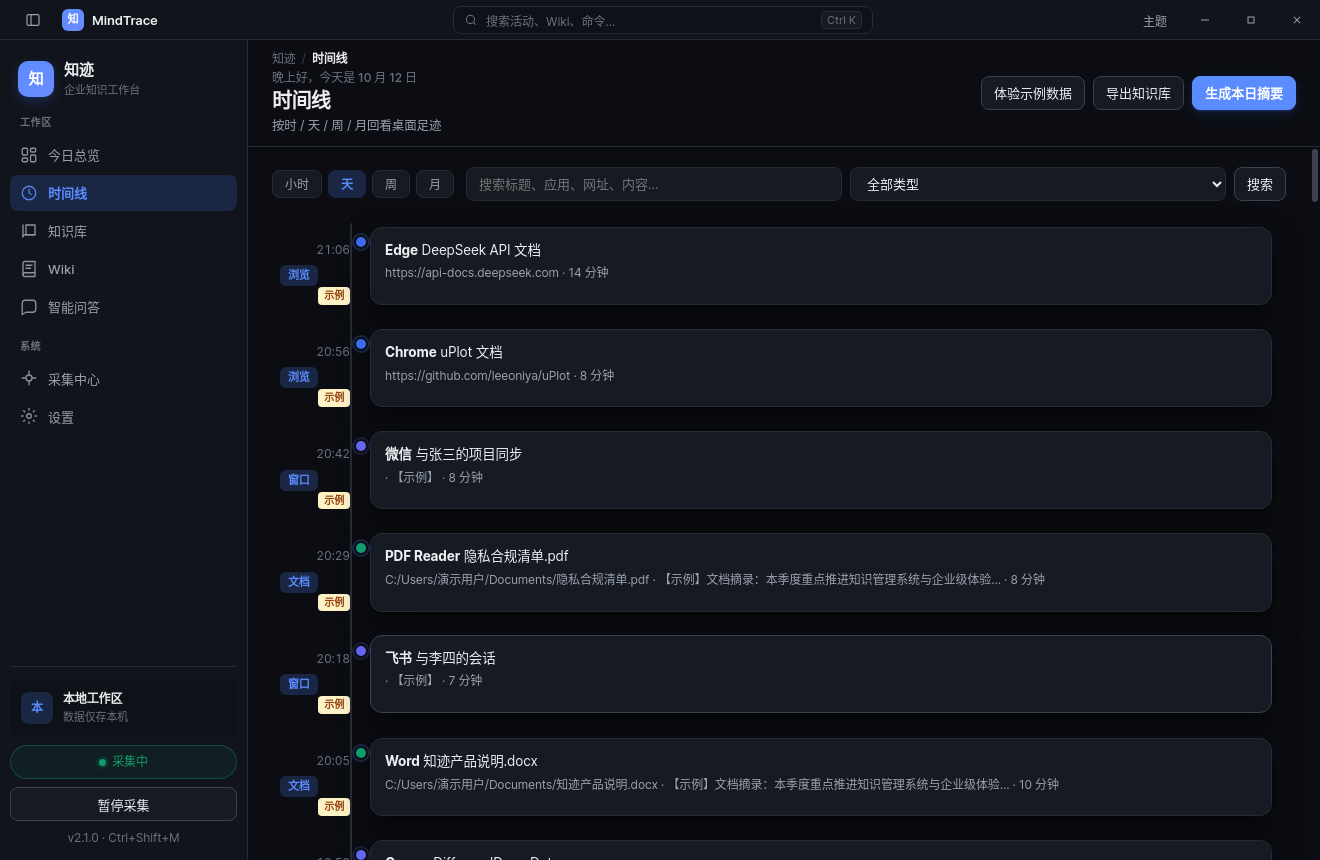
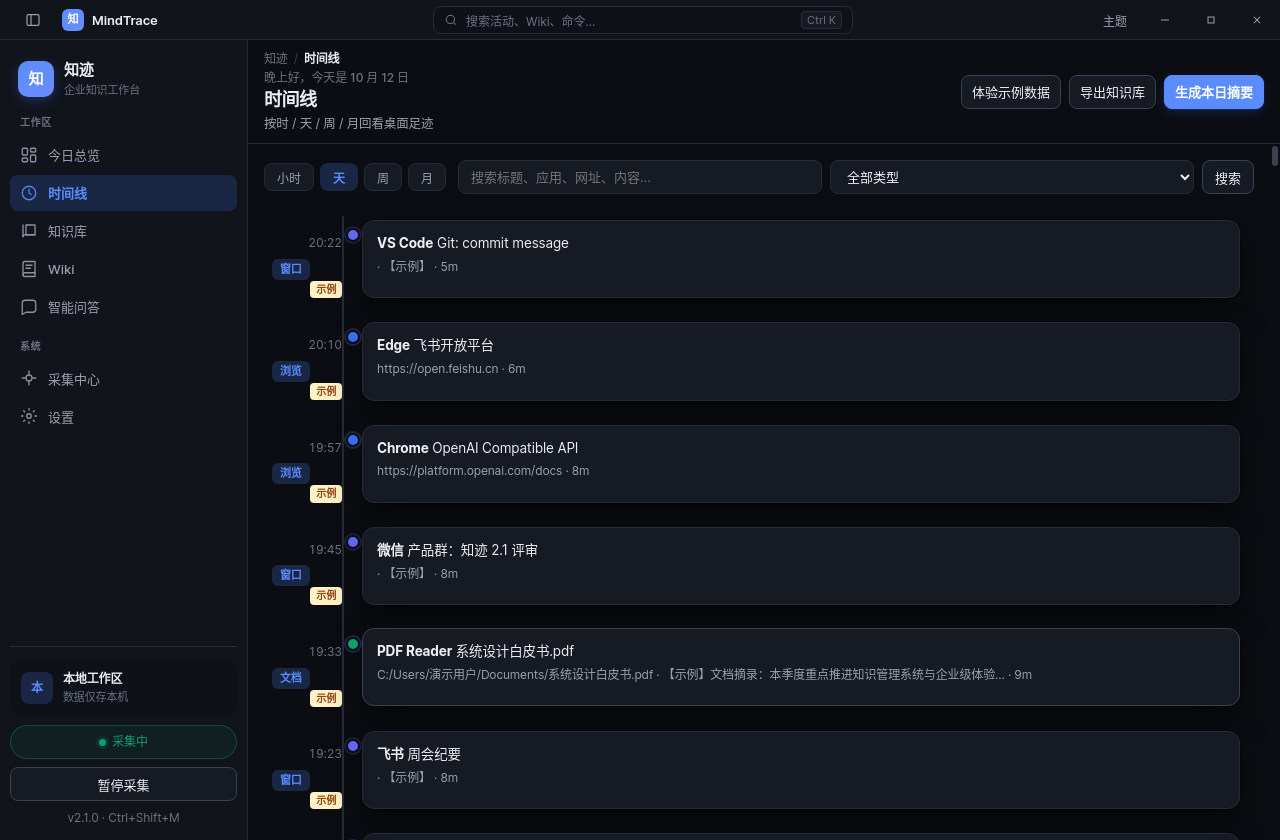
fix(ui): compact KPI time, varied 7-day demo, 1024 layout
- fmtMin → 7h 59m (nowrap); CSS tweaks for 1024/1280
- Seed days -6..-1 with varied counts; deltas ~±9–14%
- Screenshot tour includes 1024 width sweep

diff --git a/src/main/main.js b/src/main/main.js
@@ -80,9 +80,26 @@ async function runScreenshotTour() {
   await mainWindow.webContents.executeJavaScript(`document.getElementById('ob-finish')?.click()`);
   await wait(1200);
   setDemoMode(true);
+  try { mainWindow.setSize(1280, 840); } catch (_) {}
   await mainWindow.webContents.executeJavaScript(`window.mindtrace && (async()=>{const s=document.querySelector('[data-view=dashboard]'); s&&s.click(); await new Promise(r=>setTimeout(r,400));})()`);
   await wait(1200);
   await capture('05-dashboard.png');
+  // 1024px width sweep — ensure KPI / chrome do not wrap or clip
+  try { mainWindow.setSize(1024, 720); } catch (_) {}
+  await wait(500);
+  await mainWindow.webContents.executeJavaScript(`document.querySelector('[data-view=dashboard]')?.click()`);
+  await wait(700);
+  await capture('05b-dashboard-1024.png');
+  await mainWindow.webContents.executeJavaScript(`document.querySelector('[data-view=timeline]')?.click()`);
+  await wait(500); await capture('06d-timeline-1024.png');
+  await mainWindow.webContents.executeJavaScript(`document.querySelector('[data-view=wiki]')?.click()`);
+  await wait(500); await capture('07d-wiki-1024.png');
+  await mainWindow.webContents.executeJavaScript(`document.querySelector('[data-view=chat]')?.click()`);
+  await wait(500); await capture('08b-chat-1024.png');
+  try { mainWindow.setSize(1280, 840); } catch (_) {}
+  await wait(400);
+  await mainWindow.webContents.executeJavaScript(`document.querySelector('[data-view=dashboard]')?.click()`);
+  await wait(400);
   // Timeline with zoom levels
   await mainWindow.webContents.executeJavaScript(`document.querySelector('[data-view=timeline]')?.click()`);
   await wait(700);
@@ -337,7 +354,7 @@ function seedDemoData() {
     const item = catalog[n % catalog.length];
     const ti = Math.floor(n / catalog.length) % item.titles.length;
     const title = item.titles[ti];
-    const durMin = item.dur[ti % item.dur.length];
+    const durMin = Math.max(5, Math.round(item.dur[ti % item.dur.length] * 0.7));
     const start = cursor;
     const duration_ms = durMin * 60000;
     const row = {
@@ -361,22 +378,48 @@ function seedDemoData() {
     if (cursor > base + 22 * 3600000) cursor = base + (9 * 60) * 60000 + (n * 7 * 60000);
   }
 
-  // Yesterday baseline (thinner) so KPI deltas are meaningful
-  const yStart = base - 86400000;
-  for (let i = 0; i < 28; i++) {
-    const item = catalog[i % catalog.length];
-    const start = yStart + (9 * 60 + i * 18) * 60000;
-    store.insertActivity({
-      type: item.type === 'browser' ? 'browser' : item.type === 'document' ? 'document' : 'window',
-      started_at: start,
-      ended_at: start + 8 * 60000,
-      duration_ms: 8 * 60000,
-      app_name: item.app,
-      process_name: item.app,
-      window_title: '【昨日】' + item.titles[0],
-      url: item.type === 'browser' ? 'https://example.com/demo-y/' + i : null,
-      meta: { isDemo: true }
-    });
+  // Previous 6 days: varied counts for week-trend + plausible KPI deltas vs yesterday
+  // counts for days -6..-1 (today is seeded above as ~60)
+  const histCounts = [42, 51, 36, 48, 44, 55];
+  const histDurMin = [9, 10, 8, 11, 9, 8]; // day-1 ~8m avg → today ~+8–12% time // avg minutes / event → yesterday ~ close to today
+  for (let d = 6; d >= 1; d--) {
+    const dayBase = base - d * 86400000;
+    const count = histCounts[6 - d];
+    const avgDur = histDurMin[6 - d];
+    let cursor = dayBase + (8 * 60 + 40) * 60000;
+    for (let i = 0; i < count; i++) {
+      const item = catalog[i % catalog.length];
+      const ti = i % item.titles.length;
+      const durMin = Math.max(4, avgDur + ((i % 5) - 2));
+      const start = cursor;
+      const duration_ms = durMin * 60000;
+      store.insertActivity({
+        type: item.type,
+        started_at: start,
+        ended_at: start + duration_ms,
+        duration_ms,
+        app_name: item.app,
+        process_name: item.app,
+        window_title: `【示例·D-${d}】` + item.titles[ti],
+        url: item.type === 'browser' ? `https://example.com/demo/d${d}/${i}` : null,
+        file_path: item.type === 'document' ? (item.paths && item.paths[ti % item.paths.length]) : null,
+        meta: { isDemo: true }
+      });
+      cursor += duration_ms + (3 + (i % 4)) * 60000;
+      if (cursor > dayBase + 21 * 3600000) cursor = dayBase + (9 * 60) * 60000 + i * 9 * 60000;
+    }
+  }
+  // Yesterday cards baseline (~11) so cards delta ≈ +8–10% (today creates 12)
+  const yCardBase = base - 86400000 + 12 * 3600000;
+  for (let i = 0; i < 11; i++) {
+    try {
+      const id = crypto.randomUUID();
+      store.run(
+        `INSERT INTO knowledge_cards (id,kind,title,summary,content,tags,links,source_ids,importance,created_at,updated_at)
+         VALUES (?,?,?,?,?,?,?,?,?,?,?)`,
+        [id, 'note', `【示例】昨日笔记 ${i + 1}`, '昨日示例卡片', '示例', JSON.stringify(['示例']), null, null, 2, yCardBase + i * 60000, yCardBase + i * 60000]
+      );
+    } catch (_) {}
   }
 
   const cards = [];

diff --git a/src/renderer/css/app.css b/src/renderer/css/app.css
@@ -311,7 +311,7 @@ body.sidebar-collapsed .brand { justify-content: center; padding: 8px 0 16px; }
   column-gap: 8px; align-items: start;
 }
 .stat .label { color: var(--text-2); font-size: 12px; font-weight: 500; grid-column: 1; }
-.stat .value { font-size: 26px; font-weight: 700; margin-top: 6px; letter-spacing: -0.03em; line-height: 1.15; font-variant-numeric: tabular-nums; grid-column: 1; }
+.stat .value { font-size: 24px; font-weight: 700; margin-top: 6px; letter-spacing: -0.03em; line-height: 1.15; font-variant-numeric: tabular-nums; grid-column: 1; white-space: nowrap; }
 .stat .delta {
   display: inline-flex; align-items: center; gap: 4px; margin-top: 8px; width: fit-content;
   font-size: 11px; font-weight: 600; padding: 2px 7px; border-radius: var(--r-pill); grid-column: 1;
@@ -707,3 +707,31 @@ code { font-family: var(--font-mono); font-size: 12px; }
 .journal-box.md strong { font-weight: 650; }
 .journal-box.md .demo-tag { margin-left: 0; margin-bottom: 8px; }
 .journal-box.md { white-space: normal; min-height: 120px; }
+
+/* narrow layout sweep */
+@media (max-width: 1280px) {
+  .command-bar { padding: 10px 16px; }
+  .main { padding: 16px 16px 32px; }
+  .page-heading h2 { font-size: 18px; }
+  .stat .value { font-size: 22px; }
+  .app-rank-row { grid-template-columns: 26px minmax(64px, 100px) 1fr 56px 40px; gap: 8px; font-size: 12px; }
+  .wiki-layout { grid-template-columns: 240px 1fr 200px; }
+  .top-actions .btn { padding: 0 10px; }
+}
+@media (max-width: 1100px) {
+  .grid.stats { grid-template-columns: repeat(2, 1fr); }
+  .grid.two, .grid.charts, .wiki-layout { grid-template-columns: 1fr; }
+  .stat .value { font-size: 20px; }
+  .stat .spark { width: 56px; height: 24px; }
+  .titlebar { grid-template-columns: auto minmax(200px, 1fr) auto; }
+  .titlebar-brand span { display: none; }
+  .command-bar { flex-wrap: wrap; gap: 10px; }
+  .top-actions { width: 100%; justify-content: flex-end; }
+  .breadcrumb, .page-heading .muted { font-size: 12px; }
+  #recent-list .recent-row { grid-template-columns: 44px 12px 52px 1fr; gap: 8px; font-size: 12px; }
+  .chat-wrap { height: calc(100vh - 200px); min-height: 400px; }
+  .onboard-card { padding: 22px 20px; }
+  .tl-item { grid-template-columns: 56px 1fr; gap: 14px; }
+  .timeline::before { left: 62px; }
+  .tl-item::after { left: 58px; }
+}

diff --git a/src/renderer/js/app.js b/src/renderer/js/app.js
@@ -32,9 +32,10 @@ function toast(msg) {
 }
 
 function fmtMin(ms) {
-  const m = Math.round((ms || 0) / 60000);
-  if (m < 60) return `${m} 分钟`;
-  return `${Math.floor(m / 60)} 小时 ${m % 60} 分`;
+  const m = Math.max(0, Math.round((ms || 0) / 60000));
+  if (m < 60) return `${m}m`;
+  const h = Math.floor(m / 60), r = m % 60;
+  return r ? `${h}h ${r}m` : `${h}h`;
 }
 function fmtTime(ts) {
   const d = new Date(ts);
